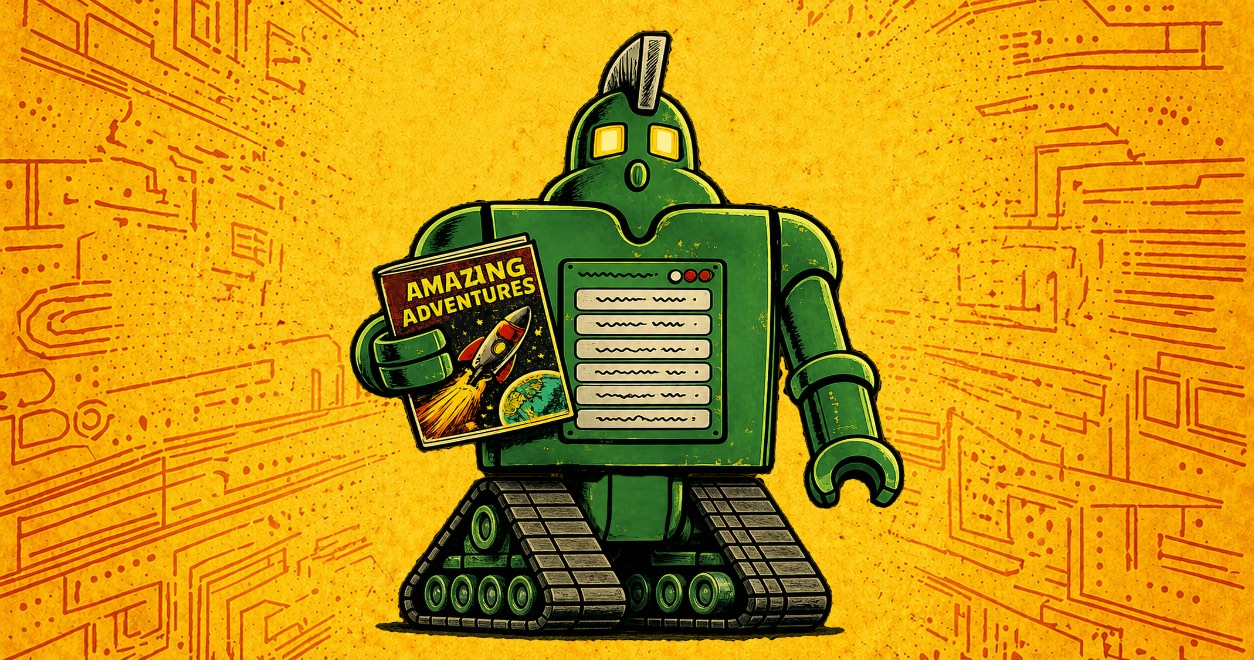
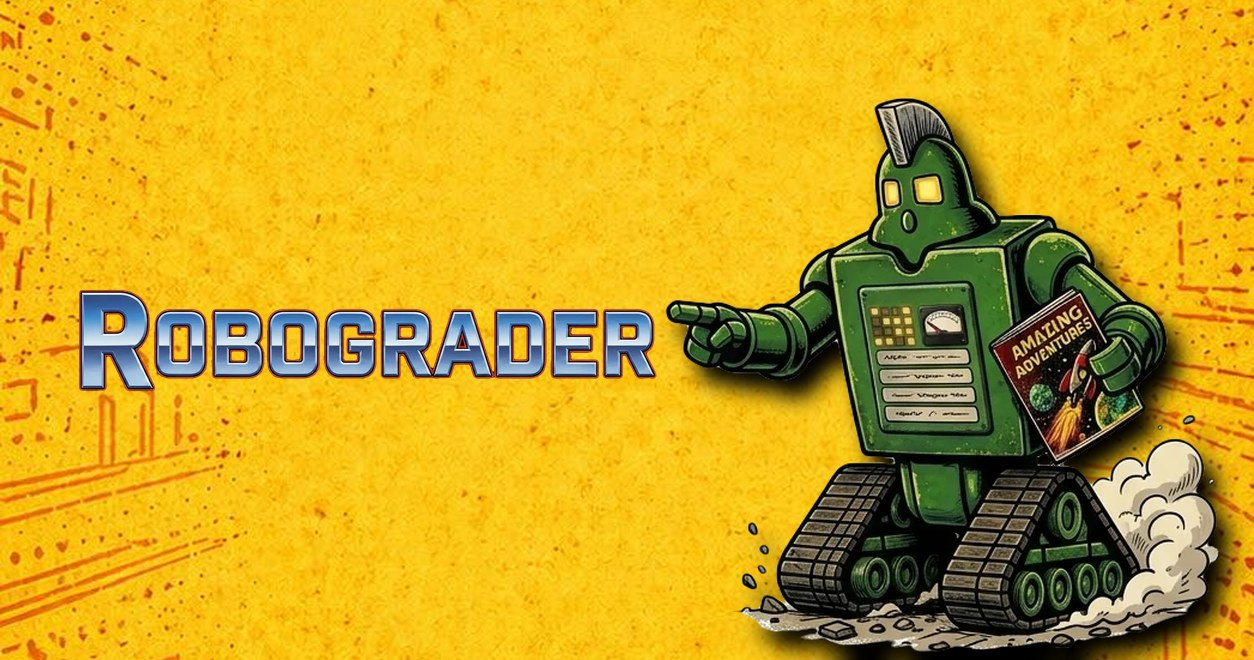
Get page

diff --git a/get/index.html b/get/index.html
@@ -1,0 +1,139 @@
+<!doctype html>
+<html lang="en">
+<head>
+<meta charset="utf-8">
+<meta name="viewport" content="width=device-width,initial-scale=1,viewport-fit=cover">
+<title>Robograder</title>
+<meta name="description" content="Robograder — AI comic grading. Use it on the web, or get the app on iOS or Android.">
+
+<!-- Open Graph (link previews) -->
+<meta property="og:title" content="Robograder">
+<meta property="og:description" content="AI comic grading — web, iOS, or Android.">
+<meta property="og:type" content="website">
+<meta property="og:url" content="https://robograder.app/get">
+<!-- TODO: 1200x630 share image -->
+<meta property="og:image" content="https://robograder.app/assets/og-share.jpg">
+
+<!-- ============================================================= -->
+<!-- TRACKING TAGS — fill in your IDs, then uncomment.              -->
+<!-- (They run once this is hosted on your own domain, not in a     -->
+<!--  preview sandbox.)                                             -->
+<!-- ============================================================= -->
+<!-- ▼ META PIXEL — replace YOUR_PIXEL_ID
+<script>
+!function(f,b,e,v,n,t,s){if(f.fbq)return;n=f.fbq=function(){n.callMethod?
+n.callMethod.apply(n,arguments):n.queue.push(arguments)};if(!f._fbq)f._fbq=n;
+n.push=n;n.loaded=!0;n.version='2.0';n.queue=[];t=b.createElement(e);t.async=!0;
+t.src=v;s=b.getElementsByTagName(e)[0];s.parentNode.insertBefore(t,s)}(window,
+document,'script','https://connect.facebook.net/en_US/fbevents.js');
+fbq('init','YOUR_PIXEL_ID'); fbq('track','PageView');
+</script>
+-->
+<!-- ▼ GOOGLE TAG — replace G-XXXXXXX / AW-XXXXXXX
+<script async src="https://www.googletagmanager.com/gtag/js?id=G-XXXXXXX"></script>
+<script>
+window.dataLayer=window.dataLayer||[];function gtag(){dataLayer.push(arguments);}
+gtag('js',new Date()); gtag('config','G-XXXXXXX'); gtag('config','AW-XXXXXXX');
+</script>
+-->
+
+<style>
+:root{ --bg:#0e1512; --ink:#eaf5df; --green:#4e9e2e; --green-d:#3a7a22; --store:#141210; --line:#294a3d; }
+*{box-sizing:border-box}
+html,body{height:100%}
+body{
+  margin:0; background:radial-gradient(120% 80% at 50% 0%,#1c2b1f 0%,#0e1512 62%);
+  color:var(--ink); font-family:-apple-system,BlinkMacSystemFont,"Segoe UI",Roboto,Helvetica,Arial,sans-serif;
+  display:flex; align-items:center; justify-content:center; padding:32px 22px;
+  padding-top:max(32px,env(safe-area-inset-top)); padding-bottom:max(32px,env(safe-area-inset-bottom));
+}
+.card{width:100%; max-width:380px; text-align:center}
+/* logo */
+.logo{width:230px; height:auto; margin:0 auto 6px; display:block}
+/* character art */
+.character{width:210px; height:auto; margin:6px auto 26px; display:block;
+  filter:drop-shadow(0 12px 26px rgba(0,0,0,.5))}
+.character-fallback{width:150px; height:150px; margin:10px auto 26px; border-radius:26px;
+  background:radial-gradient(circle at 50% 35%,#2e6e3a,#12240f); display:flex; align-items:center;
+  justify-content:center; font-size:66px; box-shadow:0 12px 30px rgba(0,0,0,.5)}
+/* the three equal, stacked buttons */
+.btns{display:flex; flex-direction:column; gap:14px}
+.btn{
+  display:flex; align-items:center; justify-content:center; gap:11px;
+  width:100%; height:62px; border-radius:14px; text-decoration:none;
+  font-size:18px; font-weight:800; letter-spacing:.2px; border:1px solid transparent; cursor:pointer;
+}
+.btn:active{transform:scale(.98)}
+.btn.web{background:var(--green); color:#0d1f08; box-shadow:0 6px 18px rgba(78,158,46,.35)}
+.btn.store{background:var(--store); color:#fff; border-color:#33463b}
+.btn svg{flex:0 0 auto}
+.btn .lbls{display:flex; flex-direction:column; align-items:flex-start; line-height:1.1}
+.btn .lbls .sm{font-size:11px; font-weight:600; opacity:.75; letter-spacing:.3px}
+.btn .lbls .lg{font-size:18px; font-weight:800}
+@media (prefers-reduced-motion:no-preference){ .btn{transition:transform .12s} }
+</style>
+</head>
+<body>
+  <main class="card">
+    <img class="logo" src="/assets/Robograder_Launch_Logo.webp" alt="Robograder">
+    <img class="character" src="/assets/Robograder_Charging.webp" alt="Robograder character"
+         onerror="this.outerHTML='<div class=&quot;character-fallback&quot;>🤖</div>'">
+
+    <nav class="btns">
+      <!-- 1 · Web -->
+      <a class="btn web" id="cta-web" href="#" data-dest="web">Go to the Web Version</a>
+
+      <!-- 2 · Apple -->
+      <a class="btn store" id="cta-ios" href="#" data-dest="ios" aria-label="Download on the App Store">
+        <svg width="24" height="24" viewBox="0 0 24 24" fill="#fff" aria-hidden="true"><path d="M16.365 1.43c0 1.14-.42 2.2-1.13 3.02-.86.98-2.27 1.74-3.4 1.65-.14-1.11.45-2.28 1.1-3.02.79-.9 2.2-1.6 3.43-1.65zM20.9 17.13c-.6 1.38-.88 1.99-1.65 3.21-1.07 1.7-2.58 3.82-4.45 3.83-1.66.02-2.09-1.08-4.34-1.07-2.25.01-2.72 1.09-4.38 1.07-1.87-.01-3.3-1.92-4.37-3.62C-.63 17.5-.9 12.13 1.4 9.28c1.11-1.4 2.86-2.29 4.5-2.29 1.67 0 2.72 1.09 4.1 1.09 1.34 0 2.16-1.09 4.1-1.09 1.46 0 3.01.8 4.11 2.17-3.61 1.98-3.02 7.14 1.09 8.96z"/></svg>
+        <span class="lbls"><span class="sm">Download on the</span><span class="lg">App Store</span></span>
+      </a>
+
+      <!-- 3 · Google -->
+      <a class="btn store" id="cta-android" href="#" data-dest="android" aria-label="Get it on Google Play">
+        <svg width="24" height="24" viewBox="0 0 512 512" aria-hidden="true"><path fill="#00d2ff" d="M47 20 285 258 47 496a30 30 0 0 1-15-26V46a30 30 0 0 1 15-26z"/><path fill="#00e676" d="M47 20a30 30 0 0 1 30 2l205 118-73 73L47 20z"/><path fill="#ffce00" d="M414 210l-72 42-73-73 73-73 72 42a34 34 0 0 1 0 62z"/><path fill="#ff3d47" d="M47 496l162-193 73 73L77 494a30 30 0 0 1-30 2z"/></svg>
+        <span class="lbls"><span class="sm">Get it on</span><span class="lg">Google Play</span></span>
+      </a>
+    </nav>
+  </main>
+
+<script>
+/* Tracked-link engine: reads the campaign params off this page's URL and
+   carries them to each destination (Play referrer / App Store ct / web utm),
+   and fires a conversion event on each tap. Fill in the store URLs below. */
+var STORE = {
+  ios:     "https://apps.apple.com/app/id6778625739",
+  android: "https://play.google.com/store/apps/details?id=app.robograder",
+  web:     "https://robograder.app"
+};
+(function(){
+  var qs=new URLSearchParams(location.search);
+  var KEYS=["utm_source","utm_medium","utm_campaign","utm_content","utm_term"];
+  var utm={}; KEYS.forEach(function(k){ if(qs.get(k)) utm[k]=qs.get(k); });
+  if(!utm.utm_source){ var r=(document.referrer||"").toLowerCase();
+    if(r.indexOf("instagram")>-1)utm.utm_source="instagram";
+    else if(r.indexOf("facebook")>-1||r.indexOf("fb.")>-1)utm.utm_source="facebook";
+    else if(r.indexOf("youtu")>-1)utm.utm_source="youtube"; }
+  var utmStr=KEYS.filter(function(k){return utm[k];}).map(function(k){return k+"="+encodeURIComponent(utm[k]);}).join("&");
+  var source=utm.utm_source||"direct";
+  var campaign=(utm.utm_campaign||"launch")+(utm.utm_content?("_"+utm.utm_content):"");
+  function link(dest){
+    if(dest==="android"){ var ref=encodeURIComponent(utmStr||("utm_source="+source));
+      return STORE.android+(STORE.android.indexOf("?")>-1?"&":"?")+"referrer="+ref; }
+    if(dest==="ios"){ return STORE.ios+"?ct="+encodeURIComponent((source+"_"+campaign).slice(0,39))+"&mt=8"; }
+    return STORE.web+(utmStr?((STORE.web.indexOf("?")>-1?"&":"?")+utmStr):"");
+  }
+  function fire(dest){
+    try{ if(window.fbq) fbq('track', dest==='web'?'Lead':'InitiateCheckout', {content_name:'get_'+dest,source:source,campaign:campaign}); }catch(e){}
+    try{ if(window.gtag) gtag('event','cta_click',{destination:dest,source:source,campaign:campaign}); }catch(e){}
+  }
+  ["cta-web","cta-ios","cta-android"].forEach(function(id){
+    var el=document.getElementById(id); if(!el)return;
+    var d=el.getAttribute("data-dest");
+    el.setAttribute("href",link(d));
+    el.addEventListener("click",function(){ fire(d); });
+  });
+})();
+</script>
+</body>
+</html>
